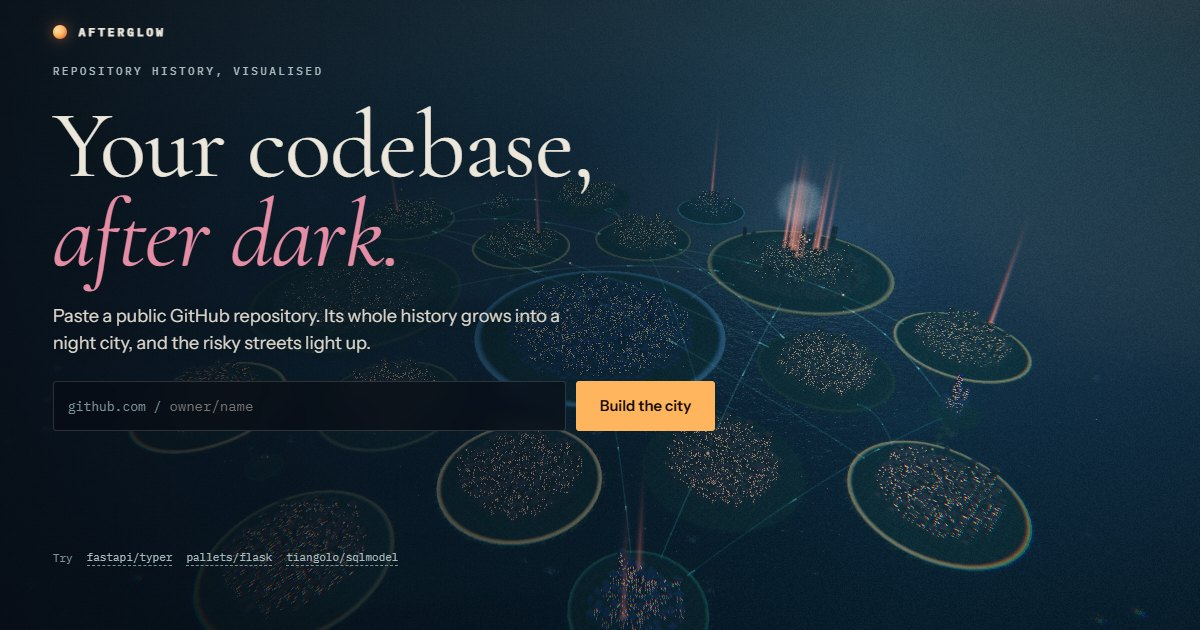
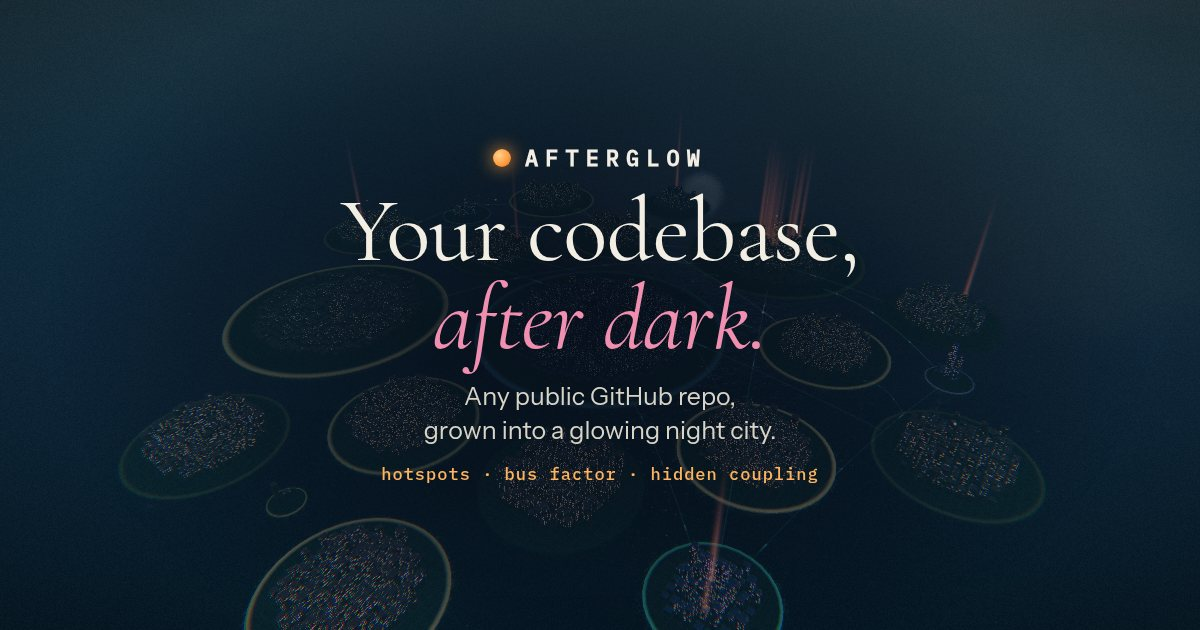
feat(frontend): link-preview image made for chat apps
Replace the landing-page screenshot with a card rendered from the real
scene: centred so WhatsApp's square crop keeps the words, baseline JPEG
at 91 KB. Add og:image:type, secure_url and alt tags, bump the image URL
so cached previews refresh, add a generator script and an e2e check.

Claude-Session: https://claude.ai/code/session_018ZTSs6R9R6g8nu98PRnUxw

diff --git a/frontend/index.html b/frontend/index.html
@@ -12,17 +12,21 @@
     <link rel="apple-touch-icon" href="/apple-touch-icon.png" />
     <meta property="og:type" content="website" />
     <meta property="og:site_name" content="Afterglow" />
+    <meta property="og:locale" content="en_GB" />
     <meta property="og:title" content="Afterglow: your codebase, after dark" />
     <meta property="og:description" content="Paste a public GitHub repository and watch its history grow into a night city: hotspots, quiet quarters, bus factor and hidden coupling." />
     <meta property="og:url" content="%SITE_URL%/" />
-    <meta property="og:image" content="%SITE_URL%/og.jpg" />
+    <meta property="og:image" content="%SITE_URL%/og.jpg?v=2" />
+    <meta property="og:image:secure_url" content="%SITE_URL%/og.jpg?v=2" />
+    <meta property="og:image:type" content="image/jpeg" />
     <meta property="og:image:width" content="1200" />
     <meta property="og:image:height" content="630" />
-    <meta property="og:image:alt" content="A night city of glowing islands and light beams, built from a repository's history" />
+    <meta property="og:image:alt" content="Afterglow: your codebase, after dark. A night city of glowing islands and light beams, built from a repository's history." />
     <meta name="twitter:card" content="summary_large_image" />
     <meta name="twitter:title" content="Afterglow: your codebase, after dark" />
     <meta name="twitter:description" content="Paste a public GitHub repository and watch its history grow into a night city: hotspots, quiet quarters, bus factor and hidden coupling." />
-    <meta name="twitter:image" content="%SITE_URL%/og.jpg" />
+    <meta name="twitter:image" content="%SITE_URL%/og.jpg?v=2" />
+    <meta name="twitter:image:alt" content="Afterglow: your codebase, after dark. A night city of glowing islands and light beams, built from a repository's history." />
     <link rel="preload" as="font" type="font/woff2" crossorigin href="/node_modules/@fontsource/cormorant-garamond/files/cormorant-garamond-latin-400-normal.woff2" />
     <link rel="preload" as="font" type="font/woff2" crossorigin href="/node_modules/@fontsource/cormorant-garamond/files/cormorant-garamond-latin-400-italic.woff2" />
     <link rel="preload" as="font" type="font/woff2" crossorigin href="/node_modules/@fontsource/ibm-plex-mono/files/ibm-plex-mono-latin-400-normal.woff2" />

diff --git a/frontend/tests/e2e/preview.spec.ts b/frontend/tests/e2e/preview.spec.ts
@@ -1,0 +1,24 @@
+import { expect, test } from '@playwright/test';
+
+// Link previews (WhatsApp, Slack, X, iMessage): crawlers read these tags without running scripts.
+test('link-preview tags point at an absolute, small, baseline JPEG', async ({ page, request }) => {
+  await page.goto('/');
+  const meta = async (sel: string): Promise<string> => (await page.locator(sel).getAttribute('content')) ?? '';
+  const image = await meta('meta[property="og:image"]');
+  expect(image).toMatch(/^https:\/\/[^/]+\/og\.jpg\?v=\d+$/);
+  expect(await meta('meta[property="og:image:secure_url"]')).toBe(image);
+  expect(await meta('meta[name="twitter:image"]')).toBe(image);
+  expect(await meta('meta[property="og:image:type"]')).toBe('image/jpeg');
+  expect(await meta('meta[property="og:image:width"]')).toBe('1200');
+  expect(await meta('meta[property="og:image:height"]')).toBe('630');
+  expect(await meta('meta[property="og:url"]')).toMatch(/^https:\/\/[^/]+\/$/);
+  for (const sel of ['og:title', 'og:description', 'og:image:alt']) expect(await meta(`meta[property="${sel}"]`)).not.toBe('');
+
+  const res = await request.get(new URL(image).pathname + new URL(image).search);
+  expect(res.status()).toBe(200);
+  expect(res.headers()['content-type']).toBe('image/jpeg');
+  const body = await res.body();
+  expect(body.length).toBeLessThan(300_000); // WhatsApp drops larger preview images
+  const sof = body.findIndex((b, i) => b === 0xff && (body[i + 1] === 0xc0 || body[i + 1] === 0xc2));
+  expect(body[sof + 1]).toBe(0xc0); // baseline, not progressive
+});

diff --git a/docs/DEPLOY.md b/docs/DEPLOY.md
@@ -50,7 +50,13 @@ EOF
 ```
 `AFTERGLOW_TLS` is the email Let's Encrypt uses for expiry notices; with it set, Caddy obtains and renews the
 certificate on its own. `scripts/build-frontend.sh` also reads `AFTERGLOW_PUBLIC_ORIGIN` to fill the link-preview
-(Open Graph) URLs; set `AFTERGLOW_SITE_URL` in the shell to override it. Keep a copy of `deploy/.env` in a password manager and never commit it.
+(Open Graph) URLs; set `AFTERGLOW_SITE_URL` in the shell to override it. The preview image
+`frontend/public/og.jpg` (1200x630, baseline JPEG, under 300 KB so WhatsApp shows it) is rendered from the real scene
+by `npm run og-image` against a running local stack; the script checks the size and format. Chat apps cache previews
+by image URL, so bump `?v=` on the `og:image` tags in `frontend/index.html` whenever the image changes. To check a
+deployment, paste the link into WhatsApp or the Facebook Sharing Debugger (both fetch the page themselves).
+
+Keep a copy of `deploy/.env` in a password manager and never commit it.
 
 The site sends `Strict-Transport-Security` with `includeSubDomains`: if you deploy on an apex domain
 (`example.com`), every subdomain must also serve HTTPS. A dedicated subdomain avoids that.

diff --git a/CHANGELOG.md b/CHANGELOG.md
@@ -14,6 +14,9 @@ Versions come from the git tag (`v*`); the package manifests stay at `0.0.0`.
 - Progress: streams are woken by a database notification when their job changes instead of polling three times a
   second, and a queued job shows how many jobs are ahead of it. The notification trigger ships in
   `0002-retention.sql` too.
+- Link previews: a new preview image made for chat apps (words inside the centre square that WhatsApp crops to,
+  baseline JPEG, 91 KB), `og:image:type`/`secure_url`/alt tags, and a cache-busting `?v=` so apps that cached the old
+  image fetch the new one. `npm run og-image` regenerates it; an e2e test guards the tags, size and format.
 - Release: images are scanned before they are pushed.
 - Worker: all clones of a job share one 512 MB scratch budget and line counts are streamed, so a large repository can
   no longer exhaust the worker's memory; a heartbeat during git calls lets a dead worker's job fail after 90 s
